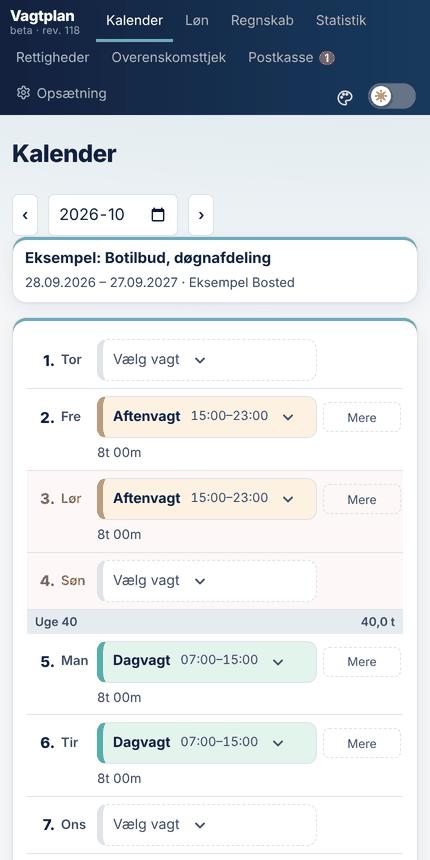
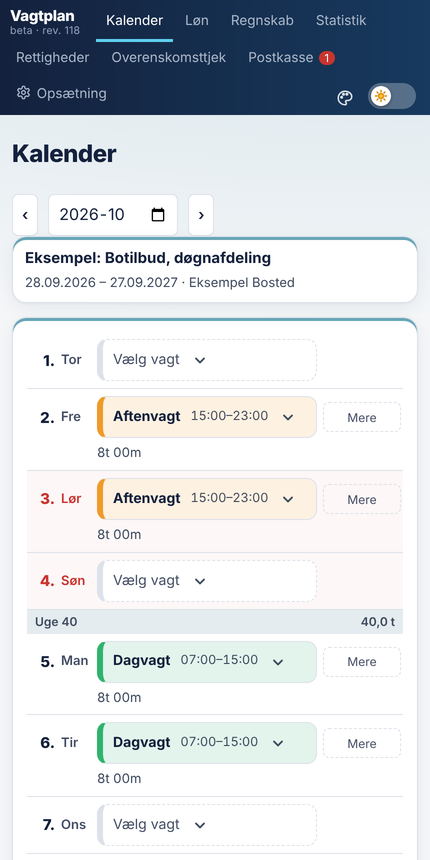
Ny landing med tegnede mockups, fem farvetemaer (Beigeic), ryddede eksempelvagtplaner
Claude-Session: https://claude.ai/code/session_01ApPBnfqP4kV8CtWLgf4i76

diff --git a/app.html b/app.html
@@ -129,7 +129,7 @@ label.chk{display:flex;flex-direction:row!important;gap:9px;align-items:flex-sta
 <nav id="nav"></nav><main id="m"></main><footer style="max-width:980px;margin:-34px auto 0;padding:0 14px 30px;font-size:12px;color:var(--mut)">Uden konto gemmes dine data kun i din browser. Med konto gemmes de på serveren, så du kan bruge dem på flere enheder. Beregninger og regeltjek er vejledende og erstatter ikke overenskomsten eller din lønseddel. Kontrollér altid mod din gældende aftale.</footer>
 <script>
 const APP='Vagtplan';document.title=APP+' – vagter, løn og overenskomsttjek';
-const REV='117';
+const REV='118';
 const VPERR=[];try{addEventListener('error',e=>{VPERR.push(((e.message||'fejl')+' @'+String(e.filename||'').split('/').pop()+':'+(e.lineno||'')).slice(0,160));if(VPERR.length>5)VPERR.shift()});addEventListener('unhandledrejection',e=>{VPERR.push(('afvist: '+((e.reason&&e.reason.message)||e.reason||'')).slice(0,160));if(VPERR.length>5)VPERR.shift()})}catch(e){}
 /* ===== OVERENSKOMST-REGLER – ret tallene her, når aftalen ændres. Kontrollér altid mod din gældende overenskomst. ===== */
 const RULES={weekHours:37,restHours:11,lateAfter:18,lateGap:{on:6,off:3,mix:5},weekendShare:2};
@@ -516,17 +516,17 @@ function demoLoad(){demoClear();const M=new Date('2026-08-31T00:00'),dk=(w,d)=>d
 /* ===== Eksempelvagtplaner for alle faggrupper ===== */
 const FER=['FE','Ferie','#8b95a5','07:00','15:00',{leave:true}],
  DG={
- sygepl:{ok:'sk',pos:'sy',dep:'Eksempel: Medicinsk afdeling',anc:'2021-08-01',f:{D:['D','Dagvagt','#2fb36d','07:00','15:00'],A:['A','Aftenvagt','#f09a2a','15:00','23:00'],N:['N','Nattevagt','#4a78e8','23:00','07:00'],F:FER},p:['DDD..DD','DD.AAD.','NNN..DD','..DDDD.']},
- sosu:{ok:'sosu',pos:'ssh',dep:'Eksempel: Geriatrisk afdeling',anc:'2022-05-01',f:{D:['D','Dagvagt','#2fb36d','07:00','15:00'],M:['M','Mellemvagt','#22b5a8','11:00','19:00'],A:['A','Aftenvagt','#f09a2a','15:00','23:00'],N:['N','Nattevagt','#4a78e8','23:00','07:00'],F:FER},p:['DDD.AAD','MM.DDD.','.NNN..D','DD.DD..']},
- portor:{ok:'por',pos:'por',dep:'Eksempel: Portørtjenesten',anc:'2020-03-01',f:{T:['T','Tidlig vagt','#9b5de5','06:30','14:30'],D:['D','Dagvagt','#2fb36d','07:00','15:00'],A:['A','Aftenvagt','#f09a2a','15:00','23:00'],N:['N','Nattevagt','#4a78e8','23:00','07:00'],F:FER},p:['DDDD..D','DD.AAD.','NNN..DD','T.TTT..']},
- jordem:{ok:'sk',pos:'man',m:41000,dep:'Eksempel: Fødeafdelingen',anc:'2019-09-01',f:{L:['LD','Lang dagvagt','#2fb36d','07:00','19:00'],Y:['LN','Lang nattevagt','#4a78e8','19:00','07:00'],F:FER},p:['.LL.Y..','.Y...LL','L.Y.L..','.LL...Y']},
- bioan:{ok:'sk',pos:'man',m:36500,dep:'Eksempel: Klinisk biokemisk afdeling',anc:'2020-02-01',f:{D:['D','Dagvagt','#2fb36d','07:30','15:00'],K:['S','Sen dag','#9b5de5','09:00','16:30'],A:['A','Aftenvagt','#f09a2a','15:00','22:30'],W:['WE','Weekendvagt','#22b5a8','08:00','16:00'],F:FER},p:['DDDDD..','DKDKD..','DDD.AA.','DDDD..W']},
- fysio:{ok:'sk',pos:'man',m:35500,dep:'Eksempel: Fysioterapien',anc:'2021-01-01',f:{D:['D','Dag','#2fb36d','08:00','15:24'],T:['T','Tidlig','#9b5de5','07:30','14:54'],S:['S','Sen','#f09a2a','09:00','16:24'],K:['KU','Kursus','#4a78e8','08:00','15:24'],F:FER},p:['DDDDD..','TTDSD..','DSDDK..','DDTDD..']},
- ergo:{ok:'sk',pos:'man',m:35500,dep:'Eksempel: Ergoterapien',anc:'2021-01-01',f:{D:['D','Dag','#2fb36d','08:00','15:24'],T:['T','Tidlig','#9b5de5','07:30','14:54'],S:['S','Sen','#f09a2a','09:00','16:24'],K:['HB','Hjemmebesøg','#22b5a8','08:00','15:24'],F:FER},p:['DDDDD..','DKDTD..','TDDSD..','DDKDD..']},
- radio:{ok:'sk',pos:'rad',dep:'Eksempel: Røntgenafdelingen',anc:'2020-08-01',f:{D:['D','Dagvagt','#2fb36d','07:30','15:00'],A:['A','Aftenvagt','#f09a2a','15:00','22:30'],W:['WE','Weekendvagt','#22b5a8','08:00','16:00'],F:FER},p:['DDDDD..','DDAD..W','DDDD...','DD.AA.W']},
- sekr:{ok:'own',pos:'man',m:33500,dep:'Eksempel: Sekretariatet',anc:'2019-04-01',f:{D:['D','Dag','#2fb36d','08:00','15:24'],T:['T','Tidlig','#9b5de5','07:30','14:54'],S:['S','Sen','#f09a2a','08:30','15:54'],F:FER},p:['DDDDD..','TTDSD..','DDSDD..','DTDDD..']},
- socped:{ok:'sped',pos:'sped',dep:'Eksempel: Botilbud, døgnafdeling',hos:'Eksempel Bosted',anc:'2022-02-01',f:{D:['D','Dagvagt','#2fb36d','07:00','15:00'],A:['A','Aftenvagt','#f09a2a','15:00','23:00'],N:['N','Nattevagt','#4a78e8','23:00','07:00'],W:['WE','Weekendvagt','#22b5a8','08:00','16:00'],F:FER},p:['DDD.AA.','DD.DD.W','.NNN..N','.DD.AA.']},
- andet:{ok:'own',pos:'man',m:34000,pay:{lo:30,hi:60},dep:'Eksempel: Egen aftale',hos:'Eksempel',anc:'2022-01-01',f:{D:['D','Dagvagt','#2fb36d','08:00','16:00'],A:['A','Aftenvagt','#f09a2a','16:00','22:00'],W:['WE','Weekendvagt','#22b5a8','09:00','17:00'],F:FER},p:['DDDDD..','DDDAA..','DD.DDW.','DDDD..W']}};
+ sygepl:{ok:'sk',pos:'sy',dep:'Eksempel: Medicinsk afdeling',anc:'2021-08-01',f:{D:['D','Dagvagt','#2fb36d','07:00','15:00'],A:['A','Aftenvagt','#f09a2a','15:00','23:00'],N:['N','Nattevagt','#4a78e8','23:00','07:00'],F:FER},p:['DDDDD..','..AAAAD','.NNNN..','..DDDD.']},
+ sosu:{ok:'sosu',pos:'ssh',dep:'Eksempel: Geriatrisk afdeling',anc:'2022-05-01',f:{D:['D','Dagvagt','#2fb36d','07:00','15:00'],M:['M','Mellemvagt','#22b5a8','11:00','19:00'],A:['A','Aftenvagt','#f09a2a','15:00','23:00'],N:['N','Nattevagt','#4a78e8','23:00','07:00'],F:FER},p:['DDDDD..','..MMMM.','AAAAD..','.NNNN.D']},
+ portor:{ok:'por',pos:'por',dep:'Eksempel: Portørtjenesten',anc:'2020-03-01',f:{T:['T','Tidlig vagt','#9b5de5','06:30','14:30'],D:['D','Dagvagt','#2fb36d','07:00','15:00'],A:['A','Aftenvagt','#f09a2a','15:00','23:00'],N:['N','Nattevagt','#4a78e8','23:00','07:00'],F:FER},p:['TTTTT..','..DDDD.','AAAAD..','.NNNN..']},
+ jordem:{ok:'sk',pos:'man',m:41000,dep:'Eksempel: Fødeafdelingen',anc:'2019-09-01',f:{L:['LD','Lang dagvagt','#2fb36d','07:00','19:00'],Y:['LN','Lang nattevagt','#4a78e8','19:00','07:00'],F:FER},p:['LLL....','...YYY.','.LLL...','...LLL.']},
+ bioan:{ok:'sk',pos:'man',m:36500,dep:'Eksempel: Klinisk biokemisk afdeling',anc:'2020-02-01',f:{D:['D','Dagvagt','#2fb36d','07:30','15:00'],K:['S','Sen dag','#9b5de5','09:00','16:30'],A:['A','Aftenvagt','#f09a2a','15:00','22:30'],W:['WE','Weekendvagt','#22b5a8','08:00','16:00'],F:FER},p:['DDDDD..','KKKKK..','DDDDD..','AAAAD..']},
+ fysio:{ok:'sk',pos:'man',m:35500,dep:'Eksempel: Fysioterapien',anc:'2021-01-01',f:{D:['D','Dag','#2fb36d','08:00','15:24'],T:['T','Tidlig','#9b5de5','07:30','14:54'],S:['S','Sen','#f09a2a','09:00','16:24'],K:['KU','Kursus','#4a78e8','08:00','15:24'],F:FER},p:['DDDDD..','TTTTT..','DDDDK..','SSSSS..']},
+ ergo:{ok:'sk',pos:'man',m:35500,dep:'Eksempel: Ergoterapien',anc:'2021-01-01',f:{D:['D','Dag','#2fb36d','08:00','15:24'],T:['T','Tidlig','#9b5de5','07:30','14:54'],S:['S','Sen','#f09a2a','09:00','16:24'],K:['HB','Hjemmebesøg','#22b5a8','08:00','15:24'],F:FER},p:['TTTTT..','DDDDD..','SSSSS..','DDDDK..']},
+ radio:{ok:'sk',pos:'rad',dep:'Eksempel: Røntgenafdelingen',anc:'2020-08-01',f:{D:['D','Dagvagt','#2fb36d','07:30','15:00'],A:['A','Aftenvagt','#f09a2a','15:00','22:30'],W:['WE','Weekendvagt','#22b5a8','08:00','16:00'],F:FER},p:['DDDDD..','AAAAD..','DDD...W','DDDDD..']},
+ sekr:{ok:'own',pos:'man',m:33500,dep:'Eksempel: Sekretariatet',anc:'2019-04-01',f:{D:['D','Dag','#2fb36d','08:00','15:24'],T:['T','Tidlig','#9b5de5','07:30','14:54'],S:['S','Sen','#f09a2a','08:30','15:54'],F:FER},p:['DDDDD..','TTTTT..','DDDDD..','SSSSS..']},
+ socped:{ok:'sped',pos:'sped',dep:'Eksempel: Botilbud, døgnafdeling',hos:'Eksempel Bosted',anc:'2022-02-01',f:{D:['D','Dagvagt','#2fb36d','07:00','15:00'],A:['A','Aftenvagt','#f09a2a','15:00','23:00'],N:['N','Nattevagt','#4a78e8','23:00','07:00'],W:['WE','Weekendvagt','#22b5a8','08:00','16:00'],F:FER},p:['DDDD..W','..AAAAD','.NNNN..','..DDDD.']},
+ andet:{ok:'own',pos:'man',m:34000,pay:{lo:30,hi:60},dep:'Eksempel: Egen aftale',hos:'Eksempel',anc:'2022-01-01',f:{D:['D','Dagvagt','#2fb36d','08:00','16:00'],A:['A','Aftenvagt','#f09a2a','16:00','22:00'],W:['WE','Weekendvagt','#22b5a8','09:00','17:00'],F:FER},p:['DDDDD..','AAAAA..','DDDDD..','DDDD..W']}};
 DG.sosa=Object.assign({},DG.sosu,{pos:'ssa'});DG.ssa=Object.assign({},DG.sosu,{pos:'ssa'});
 function demoGrp(g,sw){if(!DG[g]){demoLoad();return}demoClear();if(sw&&GRPOK[g]){S.grp=g;try{localStorage.setItem('vp_grp',g)}catch(e){}}
  const G=DG[g],id='demo_'+g,M=new Date('2026-09-28T00:00');
@@ -831,17 +831,13 @@ function explainV(){const r=R(),x=r.ext,k=n=>kr(n),sp=(v,i)=>i&&v[1]!==v[0]?` <s
 /* ===== Udseende: farvetemaer ===== */
 const GRP=[['laege','Læge'],['sygepl','Sygeplejerske'],['sosu','SOSU'],['sosa','SOSA'],['ssa','SSA'],['portor','Portør'],['jordem','Jordemoder'],['bioan','Bioanalytiker'],['fysio','Fysioterapeut'],['ergo','Ergoterapeut'],['radio','Radiograf'],['sekr','Lægesekretær'],['socped','Socialpædagog'],['andet','Andet']];
 const PAL={hav:{n:'Blå mandag',l:['#0b6e8a','#2a5fc4','#14213d','#173a5e','#0b6e8a','#2a5fc4'],d:['#4fb4d0','#7c8cf5','#0d1626','#14304f','#1c86a5','#4f63d9']},
- skov:{n:'Afspadsering',l:['#1f8a5b','#3b9f3b','#12301f','#1b4a33','#1f8a5b','#3b9f3b'],d:['#4cc38a','#9bd35a','#0c1f15','#16402d','#1e8f5f','#4b9a26']},
- sol:{n:'Fyraften',l:['#d9582b','#c2306d','#3a1d2b','#5a2a3c','#d9582b','#c2306d'],d:['#ff8a5c','#f06292','#2a1420','#4a2236','#d0521f','#b52a63']},
+ skov:{n:'Afspadsering',l:['#5c6b1c','#6d7a20','#1f2610','#343f19','#5c6b1c','#6d7a20'],d:['#b9c65c','#d6dc8c','#141a09','#272f12','#5c6b1c','#6d7a20']},
  lav:{n:'Girly pop',l:['#6a4fd0','#b04fb8','#231a45','#3a2a6e','#6a4fd0','#b04fb8'],d:['#a99bff','#e08ae6','#17112e','#2f2260','#6a4fd0','#a03fa8']},
- natv:{n:'Kaffe nr. 4',l:['#8a5a2b','#ac601c','#2e1f14','#4a3322','#8a5a2b','#ac601c'],d:['#e0a96d','#f0b35a','#1d140d','#3a281a','#8a5a2b','#ac601c']},
- blod:{n:'Rødvin på en tirsdag',l:['#c0392b','#cc4120','#3a1416','#5c1f22','#c0392b','#cc4120'],d:['#ff8a7a','#ffa27a','#2a0f11','#4d1a1d','#c0392b','#cc4120']},
- steto:{n:'Out of office',l:['#4b6a8a','#60749a','#1d2733','#324458','#4b6a8a','#60749a'],d:['#8fb2d6','#a9b9d9','#131a22','#263446','#4b6a8a','#60749a']},
- amb:{n:'Gul post-it',l:['#9a6a00','#c0392b','#2d2200','#4d3a00','#9a6a00','#c0392b'],d:['#f2c94c','#ff8a7a','#1f1700','#3d2f00','#9a6a00','#c0392b']},
- pil:{n:'Pink Friday',l:['#c2255c','#d72769','#3a0f26','#5c1a3e','#c2255c','#d72769'],d:['#ff8fb5','#ffb0c9','#2a0a1b','#4d1533','#c2255c','#d72769']}};
+ pil:{n:'Pink Friday',l:['#c2255c','#d72769','#3a0f26','#5c1a3e','#c2255c','#d72769'],d:['#ff8fb5','#ffb0c9','#2a0a1b','#4d1533','#c2255c','#d72769']},
+ beige:{n:'Beigeic',l:['#8a6a3c','#8f6c35','#3b2f22','#57452f','#8a6a3c','#8f6c35','#f5eedf','#e0d4bb','#fffaf0'],d:['#dfc596','#ecdbb8','#211b13','#3b3022','#8a6a3c','#8f6c35','#1b1711','#3b3224','#251f17']}};
 const palOk=p=>{if(!PAL[p])return false;if(!PAL[p].adm)return true;try{return ADMOK()&&(typeof AUTH==='undefined'||!!AUTH.admin)}catch(e){return false}};
 const palGet=()=>{try{const p=localStorage.getItem('vp_pal');return palOk(p)?p:'hav'}catch(e){return'hav'}};
-function palApply(){document.documentElement.setAttribute('data-pal',palGet());const P=PAL[palGet()],v=P[themeGet()==='dark'?'d':'l'],st=document.documentElement.style;['--acc','--acc2','--nav1','--nav2','--btn','--btn2'].forEach((k,i)=>st.setProperty(k,v[i]))}
+function palApply(){document.documentElement.setAttribute('data-pal',palGet());const P=PAL[palGet()],v=P[themeGet()==='dark'?'d':'l'],st=document.documentElement.style;['--acc','--acc2','--nav1','--nav2','--btn','--btn2','--bg','--line','--card'].forEach((k,i)=>v[i]?st.setProperty(k,v[i]):st.removeProperty(k))}
 function palMenu(ev){ev.stopPropagation();const o=document.getElementById('palm');if(o){o.remove();return}const b=ev.currentTarget.getBoundingClientRect(),m=document.createElement('div');m.id='palm';m.style.cssText='position:fixed;z-index:70;top:'+(b.bottom+6)+'px;right:'+Math.max(8,innerWidth-b.right-4)+'px';m.innerHTML=`<div class="ovc" style="padding:10px;width:auto;min-width:190px;max-height:72vh;overflow:auto"><b style="font-size:13px">Farvetema</b>${Object.entries(PAL).filter(([k])=>palOk(k)).map(([k,p])=>`<button class="b" style="display:flex;align-items:center;gap:8px;width:100%;margin-top:6px;${palGet()===k?'border-color:var(--acc);box-shadow:inset 0 0 0 1px var(--acc)':''}" onclick="palSet('${k}')"><span style="width:16px;height:16px;border-radius:50%;background:linear-gradient(135deg,${p.l[0]},${p.l[1]})"></span>${p.n}</button>`).join('')}</div>`;document.body.appendChild(m);setTimeout(()=>document.addEventListener('click',function f(){const x=document.getElementById('palm');if(x)x.remove();document.removeEventListener('click',f)}),0)}
 function palSet(k){try{localStorage.setItem('vp_pal',k)}catch(e){}palApply();const m=document.getElementById('palm');if(m)m.remove();render()}
 /* ===== Hvad er nyt ===== */
@@ -1003,7 +999,7 @@ function okSlip(){const e=emp(),r=R(),p=pay(S.ym,e),sl=(e.slips||{})[S.ym]||{},r
  okOpen(e.ok||'dk','Lønseddel for '+MON[+S.ym.slice(5)-1]+' '+S.ym.slice(0,4)+', beløb du selv har skrevet ind (ret eller slet de linjer, du ikke vil sende):\n'+t+'\n\nHvad tror du, forskellen skyldes?')}
 
 {const r0=render;render=function(){r0();tkTick()}}
-const CHG=[['19. oktober 2026',['Hjælp og kontakt: meld en fejl, et forslag eller et spørgsmål direkte fra appen med knappen Hjælp nederst til højre. Du behøver ikke skrive overskrift, og du følger svaret under Opsætning, Hjælp og kontakt. Administratoren har en postkasse og sætter status: Ny, Under udarbejdelse, Adresseret eller Løst','Portører har fået deres egen faggruppe og overenskomst (OK 32.16.1) med paragrafhenvisninger, garantiløn efter 3 og 10 år, aspirantperiode uden pension og pension af aften- og nattillæg med 12,6 %','Grønland: sygeplejersker, bioanalytikere, fysio- og ergoterapeuter, jordemødre, sundhedsplejersker og sundhedsassistenter (PK/PPK, OK24) som grundmodel, med lønskala trin 1–28, rekrutterings- og fastholdelsestillæg, årsbonus, aften- og nattillæg i procent og weekend- og helligdagstillæg i kroner','Rettigheder (sygdom, barns sygedag, tjenestefrihed) viser nu paragraffer for sygeplejersker, SOSU, portører og grønlandske sundhedsfaglige','Overenskomster for sygeplejersker (Sundhedskartellet, Danske Regioner) og SOSU, SSA, SSH, sundhedsmedhjælpere og portører (FOA) som grundmodel, med løn pr. område, aften-, nat- og weekendtillæg i procent, vagttillæg og pension','Faggruppen vælges, når du opretter dig, og styrer, hvilke overenskomster og stillinger du får tilbudt. Du ændrer den i Opsætning, Udseende og kalender, under «Ændre faggruppe»','Satser gælder pr. 1. oktober 2026 og er omregnet bagud til 1. november 2025','Socialpædagoger har fået deres egen faggruppe med overenskomst for regionerne (grundmodel): månedsløn efter anciennitet, aften, nat og lørdag i kroner og søn- og helligdage i procent','Eksempel-vagtplaner til alle faggrupper med typiske vagtformer, løn og et enkelt bevidst regelbrud. Find dem under Opsætning, Eksempeldata, eller vælg «Se appen med eksempler» på login-skærmen','Landingssiden er skrevet om til alle faggrupper med en oversigt over understøttede overenskomster','Fem nye farvetemaer med sjove navne, der passer til alle faggrupper: Kaffe nr. 4, Rødvin på en tirsdag, Out of office, Gul post-it og Pink Friday','Sjovere navne til de første farvetemaer: Blå mandag, Afspadsering, Fyraften og Girly pop','Excel-lønregnskab for hver ansættelse (under Ansættelser)','Udbetalingskort på Løn: hvad der kommer ind på kontoen hvornår','Påmindelse i kalenderen, når en normperiode er ved at slutte, eller du ligger over','Søgbare hospitaler og afdelinger med officielle SHAK-koder, så kolleger kan matches','Kalenderfilen bruger nu rigtige tidszoner (Danmark, Grønland og Færøerne)','Afspadsering vises ikke længere for grønlandske ansættelser','Pensionsnoten om Grønland vises kun, når du har en aktiv grønlandsk ansættelse','Farvetemaer, byttevagt-kort og en startguide','Faggruppe kan vælges, og vises i admin','Importér vagtplan er markeret som work in progress']],
+const CHG=[['19. oktober 2026',['Hjælp og kontakt: meld en fejl, et forslag eller et spørgsmål direkte fra appen med knappen Hjælp nederst til højre. Du behøver ikke skrive overskrift, og du følger svaret under Opsætning, Hjælp og kontakt. Administratoren har en postkasse og sætter status: Ny, Under udarbejdelse, Adresseret eller Løst','Portører har fået deres egen faggruppe og overenskomst (OK 32.16.1) med paragrafhenvisninger, garantiløn efter 3 og 10 år, aspirantperiode uden pension og pension af aften- og nattillæg med 12,6 %','Grønland: sygeplejersker, bioanalytikere, fysio- og ergoterapeuter, jordemødre, sundhedsplejersker og sundhedsassistenter (PK/PPK, OK24) som grundmodel, med lønskala trin 1–28, rekrutterings- og fastholdelsestillæg, årsbonus, aften- og nattillæg i procent og weekend- og helligdagstillæg i kroner','Rettigheder (sygdom, barns sygedag, tjenestefrihed) viser nu paragraffer for sygeplejersker, SOSU, portører og grønlandske sundhedsfaglige','Overenskomster for sygeplejersker (Sundhedskartellet, Danske Regioner) og SOSU, SSA, SSH, sundhedsmedhjælpere og portører (FOA) som grundmodel, med løn pr. område, aften-, nat- og weekendtillæg i procent, vagttillæg og pension','Faggruppen vælges, når du opretter dig, og styrer, hvilke overenskomster og stillinger du får tilbudt. Du ændrer den i Opsætning, Udseende og kalender, under «Ændre faggruppe»','Satser gælder pr. 1. oktober 2026 og er omregnet bagud til 1. november 2025','Socialpædagoger har fået deres egen faggruppe med overenskomst for regionerne (grundmodel): månedsløn efter anciennitet, aften, nat og lørdag i kroner og søn- og helligdage i procent','Eksempel-vagtplaner til alle faggrupper med typiske vagtformer, løn og et enkelt bevidst regelbrud. Find dem under Opsætning, Eksempeldata, eller vælg «Se appen med eksempler» på login-skærmen','Landingssiden er skrevet om til alle faggrupper med en oversigt over understøttede overenskomster','Fem farvetemaer med sjove navne: Blå mandag, Afspadsering (nu olivengrøn), Girly pop, Pink Friday og det nye beige tema Beigeic','Excel-lønregnskab for hver ansættelse (under Ansættelser)','Udbetalingskort på Løn: hvad der kommer ind på kontoen hvornår','Påmindelse i kalenderen, når en normperiode er ved at slutte, eller du ligger over','Søgbare hospitaler og afdelinger med officielle SHAK-koder, så kolleger kan matches','Kalenderfilen bruger nu rigtige tidszoner (Danmark, Grønland og Færøerne)','Afspadsering vises ikke længere for grønlandske ansættelser','Pensionsnoten om Grønland vises kun, når du har en aktiv grønlandsk ansættelse','Farvetemaer, byttevagt-kort og en startguide','Faggruppe kan vælges, og vises i admin','Importér vagtplan er markeret som work in progress']],
  ['Tidligere i oktober 2026',['Vagtformer kan sorteres og er delt i dag og nat','Farver vælges automatisk og er mere elegante','Påmindelse om at tilføje tillæg, når du tilføjer en vagt i et allerede udfyldt skema','Deling af normperioder og vagtformer med kolleger (forvagt og bagvagt)','Admin-panel med brugere, deling, åbninger og installationer','Mellemvagt medicin som valg med 7,5 effektive timer','Grønlandske rettigheder og overenskomsttjek rettet','Effektive timer og vagttillæg er markeret som udbetalt måneden efter']]];
 function chgOpen(){chgClose();const d=document.createElement('div');d.id='chg';d.className='ov';d.onclick=e=>{if(e.target===d)chgClose()};d.innerHTML=`<div class="ovc"><div class="row"><h2 class="sp" style="margin:0">Hvad er nyt</h2><button class="b" onclick="chgClose()">Luk</button></div><p class="note">Version ${typeof REV!=='undefined'?REV:''} (beta)</p>${CHG.map(([t,l])=>`<h3 style="margin:14px 0 4px">${t}</h3><ul style="margin:0;padding-left:20px">${l.map(x=>`<li>${x}</li>`).join('')}</ul>`).join('')}</div>`;document.body.appendChild(d)}
 function chgClose(){const d=document.getElementById('chg');if(d)d.remove()}

diff --git a/index.html b/index.html
@@ -45,10 +45,26 @@ section{padding:34px 0}
 .ok li{margin:4px 0}
 @media(max-width:820px){.gal{grid-template-columns:1fr}}
 @media(max-width:720px){.tbl thead{display:none}.tbl,.tbl tbody{display:block;border:0;background:transparent}.tbl tr{display:block;background:var(--card);border:1px solid var(--line);border-radius:12px;padding:10px 14px;margin-bottom:10px}.tbl td{display:block;border:0;padding:3px 0}.tbl td[data-l]::before{content:attr(data-l) ': ';color:var(--mut);font-size:13px}.tbl tr:last-child td{border-bottom:0}}
+
+.mk{background:var(--card);border:1px solid var(--line);border-radius:16px;box-shadow:0 18px 50px rgba(20,33,61,.16);padding:16px 16px 14px;width:100%;max-width:540px;margin-left:auto}
+.mk .top{display:flex;justify-content:space-between;align-items:baseline;gap:10px;margin-bottom:12px;flex-wrap:wrap}.mk h4{margin:0;font-size:17px;letter-spacing:-.01em}.mk .top small{color:var(--mut);font-size:13px}
+.mg{display:grid;grid-template-columns:repeat(7,1fr);gap:5px}.mg b{font-size:11px;color:var(--mut);text-align:center;font-weight:700;text-transform:uppercase;letter-spacing:.05em;padding-bottom:2px}
+.mg div{min-height:50px;border-radius:9px;background:var(--bg);padding:4px 5px 5px;font-size:12px;color:var(--mut);display:flex;flex-direction:column;justify-content:space-between;gap:3px}.mg div.e{background:transparent}.mg div.we{background:color-mix(in srgb,#c8352f 7%,var(--bg))}
+.mg div.wr{outline:2px solid #d64a42;outline-offset:-2px}
+.mg i,.lg i{font-style:normal;font-weight:800;font-size:12px;border-radius:5px;padding:2px 0;text-align:center;color:var(--ink);display:block}.mg i.z{background:transparent}
+.sd{background:rgba(47,179,109,.30)}.sa{background:rgba(240,154,42,.36)}.sn{background:rgba(74,120,232,.32)}.sw{background:transparent;outline:2px solid #d64a42;outline-offset:-2px}
+.lg{display:flex;flex-wrap:wrap;gap:6px 14px;margin-top:12px;font-size:12.5px;color:var(--mut)}.lg span{display:flex;align-items:center;gap:6px}.lg i{display:inline-block;width:12px;height:12px;border-radius:4px;padding:0}
+.ms{display:grid;grid-template-columns:repeat(3,1fr);gap:8px;margin-top:12px}.ms div{background:var(--bg);border-radius:10px;padding:9px 11px}.ms small{display:block;color:var(--mut);font-size:11px;text-transform:uppercase;letter-spacing:.05em}.ms b{font-size:18px;letter-spacing:-.01em}
+.rw{display:flex;justify-content:space-between;gap:14px;align-items:baseline;padding:11px 2px;border-top:1px solid var(--line);font-size:15px}.rw b{white-space:nowrap}.rw.tot{font-size:15px}.rw.tot b{font-size:21px;letter-spacing:-.02em}.rw.sm{font-size:13px;color:var(--mut)}.rw.sm b{color:var(--ink);font-size:14px}
+.ck{display:flex;gap:12px;align-items:flex-start;border-top:1px solid var(--line);padding:12px 2px}.ck i{font-style:normal;font-weight:700;font-size:12px;border-radius:20px;padding:3px 10px;white-space:nowrap;flex:none;margin-top:1px}.ck i.bad{background:rgba(214,74,66,.14);color:#c8352f}.ck i.good{background:rgba(31,138,91,.14);color:var(--ok)}.ck b{display:block;font-size:15px}.ck span{color:var(--mut);font-size:13.5px;line-height:1.4}
+:root[data-theme="dark"] .ck i.bad{color:#ff8a82}@media(prefers-color-scheme:dark){:root:not([data-theme="light"]) .ck i.bad{color:#ff8a82}}
+.stk{display:grid;gap:16px}
+@media(max-width:820px){.mk{margin:0 auto}}
+@media(max-width:420px){.mg{gap:3px}.mg div{min-height:44px;padding:3px 4px}.ms b{font-size:15px}}
 </style></head><body>
 
 <div class="w"><header><b><svg width="30" height="30" viewBox="0 0 512 512" aria-hidden="true"><rect width="512" height="512" rx="104" fill="#14213d"/><circle cx="256" cy="256" r="170" fill="none" stroke="#fff" stroke-width="30"/><path d="M96 276h82l48-112 80 208 48-96h62" fill="none" stroke="#5fd0ef" stroke-width="30" stroke-linecap="round" stroke-linejoin="round"/></svg>Vagtplan</b><nav><a class="h" href="#ok">Overenskomster</a><a class="h" href="#eksempler">Eksempler</a><a class="h" href="#funktioner">Funktioner</a><a class="h" href="#faq">Spørgsmål</a><button class="tg" id="th" type="button" role="switch" aria-label="Mørk tilstand"><span class="tgk"></span></button><a class="btn" style="padding:8px 16px" href="app.html">Åbn appen</a></nav></header>
-<div class="hero"><div><h1>Din vagtplan. Din løn. Din overenskomst.</h1><p class="lead">Vagtplan gør vagtplanen til et regnestykke, du kan stole på. Læg dine vagter ind, og se hvad du får udbetalt, om planen overholder reglerne, og hvad du har ret til. Til læger, sygeplejersker, SOSU, portører, socialpædagoger og de øvrige faggrupper i sundhedsvæsenet i Danmark, Grønland og på Færøerne.</p><div class="cta"><a class="btn" href="app.html">Kom i gang</a><a class="btn o" href="#eksempler">Se et eksempel</a></div><p class="sub" style="margin:14px 0 0;font-size:14px">Du kan prøve den uden at oprette en konto.</p></div><img class="shot" src="img/kalender.png" alt="Kalender med dag-, aften- og nattevagter, vagtformer og timer pr. uge" width="1200" height="780"></div></div>
+<div class="hero"><div><h1>Din vagtplan. Din løn. Din overenskomst.</h1><p class="lead">Vagtplan gør vagtplanen til et regnestykke, du kan stole på. Læg dine vagter ind, og se hvad du får udbetalt, om planen overholder reglerne, og hvad du har ret til. Til læger, sygeplejersker, SOSU, portører, socialpædagoger og de øvrige faggrupper i sundhedsvæsenet i Danmark, Grønland og på Færøerne.</p><div class="cta"><a class="btn" href="app.html">Kom i gang</a><a class="btn o" href="#eksempler">Se et eksempel</a></div><p class="sub" style="margin:14px 0 0;font-size:14px">Du kan prøve den uden at oprette en konto.</p></div><div class="mk" role="img" aria-label="Eksempel på en måneds vagtplan med dag-. aften- og nattevagte. løn og en advarsel om for kort hvile"><div class="top"><h4>Oktober 2026</h4><small>Eksempel: sygeplejerske</small></div><div class="mg"><b>Man</b><b>Tir</b><b>Ons</b><b>Tor</b><b>Fre</b><b>Lør</b><b>Søn</b><div class="e"></div><div class="e"></div><div class="e"></div><div class=""><span>1</span><i class="sd">D</i></div><div class=""><span>2</span><i class="sd">D</i></div><div class="we"><span>3</span><i class="z"></i></div><div class="we"><span>4</span><i class="z"></i></div><div class=""><span>5</span><i class="z"></i></div><div class=""><span>6</span><i class="z"></i></div><div class=""><span>7</span><i class="sa">A</i></div><div class=""><span>8</span><i class="sa">A</i></div><div class=""><span>9</span><i class="sa">A</i></div><div class="we"><span>10</span><i class="sa">A</i></div><div class="we wr"><span>11</span><i class="sd">D</i></div><div class=""><span>12</span><i class="z"></i></div><div class=""><span>13</span><i class="sn">N</i></div><div class=""><span>14</span><i class="sn">N</i></div><div class=""><span>15</span><i class="sn">N</i></div><div class=""><span>16</span><i class="sn">N</i></div><div class="we"><span>17</span><i class="z"></i></div><div class="we"><span>18</span><i class="z"></i></div><div class=""><span>19</span><i class="z"></i></div><div class=""><span>20</span><i class="z"></i></div><div class=""><span>21</span><i class="sd">D</i></div><div class=""><span>22</span><i class="sd">D</i></div><div class=""><span>23</span><i class="sd">D</i></div><div class="we"><span>24</span><i class="sd">D</i></div><div class="we"><span>25</span><i class="z"></i></div><div class=""><span>26</span><i class="sd">D</i></div><div class=""><span>27</span><i class="sd">D</i></div><div class=""><span>28</span><i class="sd">D</i></div><div class=""><span>29</span><i class="sd">D</i></div><div class=""><span>30</span><i class="sd">D</i></div><div class="we"><span>31</span><i class="z"></i></div><div class="e"></div></div><div class="lg"><span><i class="sd"></i>Dag</span><span><i class="sa"></i>Aften</span><span><i class="sn"></i>Nat</span><span><i class="sw"></i>Hvileadvarsel</span></div><div class="ms"><div><small>Timer</small><b>160</b></div><div><small>Løn før skat</small><b>36.554 kr.</b></div><div><small>Advarsler</small><b>1</b></div></div></div></div></div>
 
 <section id="faggrupper" style="padding-top:10px"><div class="w"><h2>Til dig, uanset faggruppe</h2><p class="sub">Vælg din faggruppe første gang, så viser appen de overenskomster og stillinger, der passer til dig.</p>
 <div class="chips"><span class="chip">Læger</span><span class="chip">Sygeplejersker</span><span class="chip">SOSU-hjælpere</span><span class="chip">SOSU-assistenter</span><span class="chip">Portører</span><span class="chip">Socialpædagoger</span><span class="chip">Jordemødre</span><span class="chip">Bioanalytikere</span><span class="chip">Fysioterapeuter</span><span class="chip">Ergoterapeuter</span><span class="chip">Radiografer</span><span class="chip">Lægesekretærer</span><span class="chip">Og alle med en egen aftale</span></div></div></section>
@@ -63,10 +79,8 @@ section{padding:34px 0}
 </div></div></section>
 
 <section id="eksempler"><div class="w"><h2>Se, hvordan det ser ud for din faggruppe</h2>
-<div class="split" style="align-items:start"><div><p class="sub" style="max-width:none">Der er en eksempel-vagtplan til hver faggruppe, med typiske vagtformer for netop dit arbejde: dag, aften, nat, weekend og lange vagter. Du ser en hel måned med løn og ulempetillæg, og et bevidst regelbrud, så du kan se, hvordan overenskomsttjekket advarer.</p><ol class="st"><li>Åbn appen, og vælg <b>Se appen med eksempler (uden konto)</b>.</li><li>Vælg din faggruppe.</li><li>Kig rundt i Kalender, Løn, Overenskomsttjek og Rettigheder.</li><li>Fjern eksemplet igen med ét tryk, når du vil lægge dine egne vagter ind.</li></ol><p style="margin:18px 0 0"><a class="btn" href="app.html">Prøv med et eksempel</a></p></div>
-<img class="ph" src="img/mobil.png" alt="Eksempel på kalender i telefonen, med aftenvagt og dagvagter" width="430" height="860" loading="lazy"></div>
-<div class="gal"><figure><img class="shot" src="img/loen.png" alt="Løn for måneden: grundløn, ulempetillæg og pension" width="1000" height="427" loading="lazy"><figcaption>Løn for måneden, med ulempetillæg og pension regnet ud fra dine vagter.</figcaption></figure>
-<figure><img class="shot" src="img/tjek.png" alt="Overenskomsttjek med to konflikter om hviletid" width="1000" height="525" loading="lazy"><figcaption>Overenskomsttjek: appen peger på de to vagter, hvor hvilen er for kort.</figcaption></figure></div></div></section>
+<div class="split" style="align-items:start"><div><p class="sub" style="max-width:none">Der er en eksempel-vagtplan til hver faggruppe, med typiske vagtformer for netop dit arbejde. Du ser en hel måned med løn og ulempetillæg, og et bevidst regelbrud, så du kan se, hvordan overenskomsttjekket advarer. Tallene her er fra eksemplet for en sygeplejerske. Vagterne er opdigtede.</p><ol class="st"><li>Åbn appen, og vælg <b>Se appen med eksempler (uden konto)</b>.</li><li>Vælg din faggruppe.</li><li>Kig rundt i Kalender, Løn, Overenskomsttjek og Rettigheder.</li><li>Fjern eksemplet igen med ét tryk, når du vil lægge dine egne vagter ind.</li></ol><p style="margin:18px 0 0"><a class="btn" href="app.html">Prøv med et eksempel</a></p></div>
+<div class="stk"><div class="mk"><div class="top"><h4>Løn, oktober 2026</h4><small>Beregnet ud fra vagterne</small></div><div class="rw"><span>Grundløn</span><b>31.276,81 kr.</b></div><div class="rw"><span>Ulempetillæg (timer)</span><b>5.276,74 kr.</b></div><div class="rw tot"><span>Før skat i alt (estimat)</span><b>36.553,55 kr.</b></div><div class="rw sm"><span>Pension: arbejdsgiver 2.919,17 kr., din andel 1.459,58 kr.</span><b>4.378,75 kr.</b></div></div><div class="mk"><div class="top"><h4>Overenskomsttjek</h4><small>Hviletid og fridøgn</small></div><div class="ck"><i class="bad">1 konflikt</i><div><b>Hviletid efter arbejde</b><span>10. oktober til 11. oktober: kun 8,0 t hvile, mindst 11 t kræves</span></div></div><div class="ck"><i class="good">Ingen konflikter</i><div><b>Ugentligt fridøgn</b><span>Mindst 35 timers sammenhængende hvile hver 7. døgn</span></div></div></div></div></div></div></section>
 
 <section id="ok"><div class="w"><h2>Overenskomster, der er med</h2><p class="sub">Reglerne følger din ansættelse, og du kan have flere ansættelser med hver sin overenskomst. Fx en fast stilling og vikarvagter ved siden af.</p>
 <div class="leg"><span><i class="bd ok">Afstemt</i> brugt og tjekket mod en rigtig lønseddel</span><span><i class="bd g">Grundmodel</i> bygget på overenskomsten, men endnu ikke afstemt</span><span><i class="bd o">Dine egne tal</i> du skriver løn og satser ind selv</span></div>
@@ -105,7 +119,7 @@ section{padding:34px 0}
 <div class="c"><h3>Flere ansættelser</h3><p>Fast stilling, vikarvagter og tidligere ansættelser samlet. Hvile og fridøgn tjekkes på tværs af alle dine jobs.</p></div>
 <div class="c"><h3>Din kalender, dine påmindelser</h3><p>Hent en kalenderfil, eller abonnér, så dine vagter dukker op i Apple Kalender og Google Kalender.</p></div>
 <div class="c"><h3>Hjælp og postkasse</h3><p>Meld en fejl, et forslag eller et spørgsmål direkte fra appen, og følg svaret og status.</p></div>
-<div class="c"><h3>Dit udseende</h3><p>Lys og mørk tilstand og ni farvetemaer med navne som Kaffe nr. 4, Rødvin på en tirsdag og Pink Friday.</p></div>
+<div class="c"><h3>Dit udseende</h3><p>Lys og mørk tilstand og fem farvetemaer: Blå mandag, Afspadsering, Girly pop, Pink Friday og Beigeic.</p></div>
 <div class="c"><h3>Som app på telefonen</h3><p>Læg siden på hjemmeskærmen, så åbner den som en almindelig app. Der er ingen app-butik.</p></div>
 </div></div></section>
 
